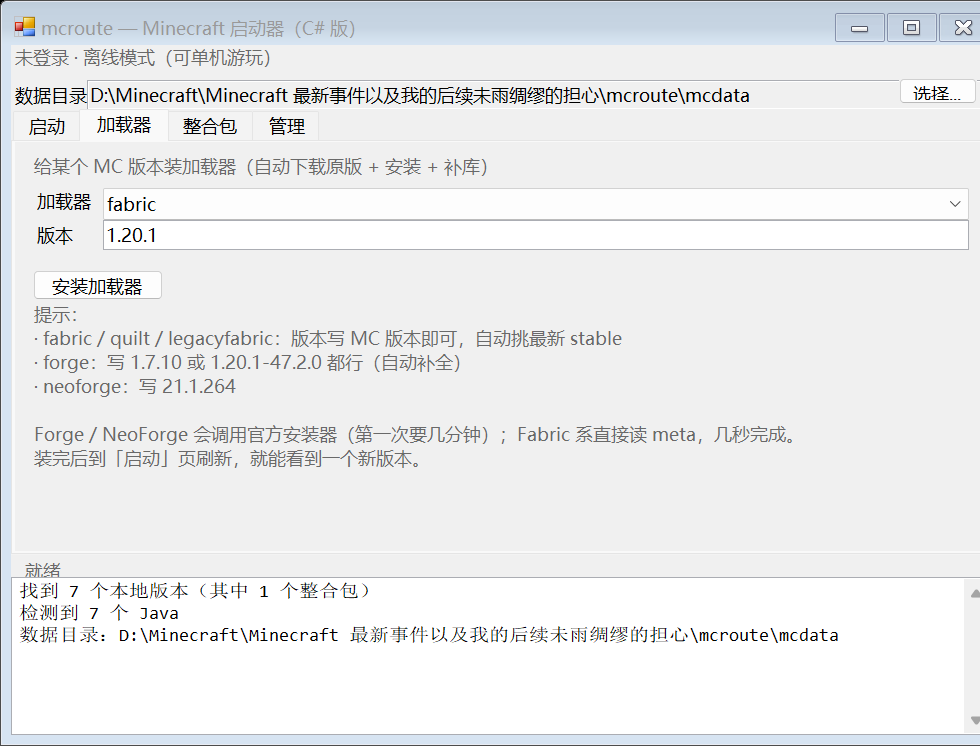
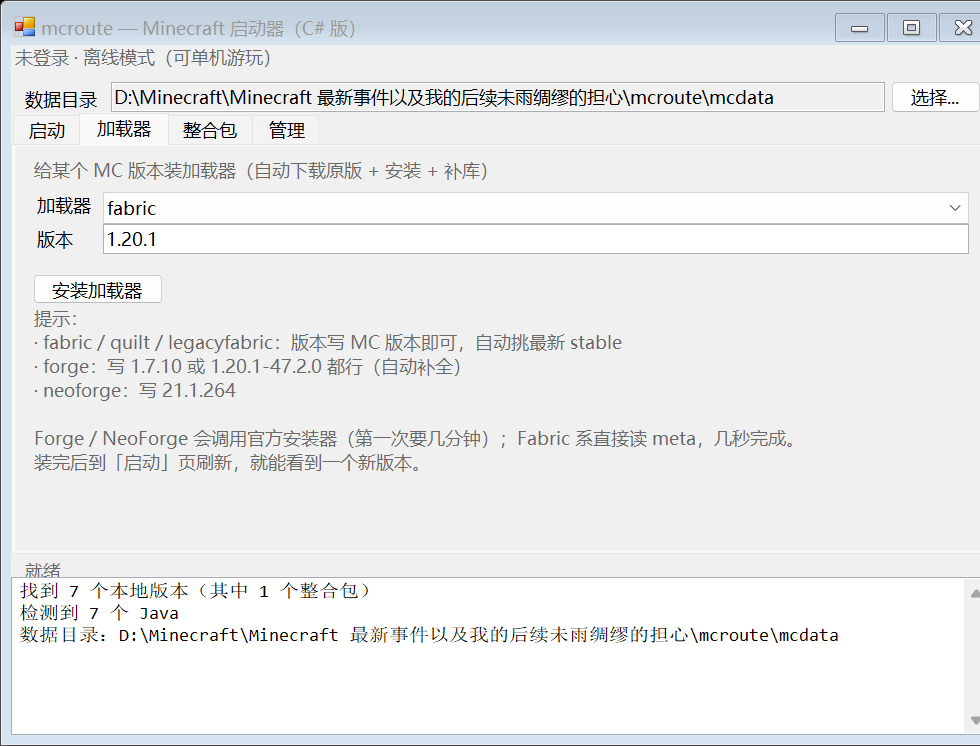
fix(gui): data-dir and pack rows use TableLayout+AutoSize labels (buttons were hidden); drag-drop a pack file

diff --git a/csharp/MainForm.cs b/csharp/MainForm.cs
@@ -50,21 +50,19 @@ namespace Mcroute
             var top = new Panel { Dock = DockStyle.Top, Height = 30, Padding = new Padding(10, 7, 10, 0) };
             top.Controls.Add(new Label { Text = "未登录 · 离线模式（可单机游玩）", AutoSize = true, ForeColor = Color.DimGray });
 
-            var dataRow = new Panel { Dock = DockStyle.Top, Height = 34, Padding = new Padding(10, 2, 10, 0) };
-            var dataLabel = new Label { Text = "数据目录", AutoSize = true, Location = new Point(0, 8) };
-            _dataDirBox = new TextBox
-            {
-                Left = 76,
-                Top = 5,
-                Width = 560,
-                ReadOnly = true,
-                Anchor = AnchorStyles.Left | AnchorStyles.Top | AnchorStyles.Right,
-            };
-            var pickDir = new Button { Text = "选择...", Width = 78, Height = 26, Top = 3, Anchor = AnchorStyles.Top | AnchorStyles.Right };
-            pickDir.Left = 640;
-            dataRow.Resize += (s, e) => pickDir.Left = dataRow.ClientSize.Width - pickDir.Width - 14;
-            pickDir.Click += (s, e) => PickDataDir();
-            dataRow.Controls.AddRange(new Control[] { dataLabel, _dataDirBox, pickDir });
+            // 数据目录行（TableLayout：标签 | 输入框(填满) | 按钮）
+            var dataRow = new Panel { Dock = DockStyle.Top, Height = 38, Padding = new Padding(10, 4, 10, 0) };
+            var dataGrid = new TableLayoutPanel { Dock = DockStyle.Fill, ColumnCount = 3, RowCount = 1 };
+            dataGrid.ColumnStyles.Add(new ColumnStyle(SizeType.AutoSize));
+            dataGrid.ColumnStyles.Add(new ColumnStyle(SizeType.Percent, 100f));
+            dataGrid.ColumnStyles.Add(new ColumnStyle(SizeType.Absolute, 90f));
+            dataGrid.Controls.Add(new Label { Text = "数据目录", AutoSize = true, Anchor = AnchorStyles.Left, Margin = new Padding(0, 6, 8, 0) }, 0, 0);
+            _dataDirBox = new TextBox { Dock = DockStyle.Fill, ReadOnly = true, Margin = new Padding(0, 3, 6, 0) };
+            dataGrid.Controls.Add(_dataDirBox, 1, 0);
+            var pickDir = new Button { Text = "选择...", Dock = DockStyle.Fill, Margin = new Padding(0, 2, 0, 0) };
+            pickDir.Click += (s2, e2) => PickDataDir();
+            dataGrid.Controls.Add(pickDir, 2, 0);
+            dataRow.Controls.Add(dataGrid);
 
             var bottom = new Panel { Dock = DockStyle.Bottom, Height = 180 };
             _status = new Label { Dock = DockStyle.Top, Height = 22, Text = "就绪", ForeColor = Color.DimGray, Padding = new Padding(10, 4, 0, 0) };
@@ -233,13 +231,22 @@ namespace Mcroute
             }, 0, 0);
 
             var pathRow = new TableLayoutPanel { Dock = DockStyle.Fill, ColumnCount = 3 };
-            pathRow.ColumnStyles.Add(new ColumnStyle(SizeType.Absolute, 66f));
+            pathRow.ColumnStyles.Add(new ColumnStyle(SizeType.AutoSize));
             pathRow.ColumnStyles.Add(new ColumnStyle(SizeType.Percent, 100f));
             pathRow.ColumnStyles.Add(new ColumnStyle(SizeType.Absolute, 90f));
-            pathRow.Controls.Add(new Label { Text = "包文件", AutoSize = true, Anchor = AnchorStyles.Left }, 0, 0);
-            var path = new TextBox { Dock = DockStyle.Top };
+            pathRow.Controls.Add(new Label { Text = "包文件", AutoSize = true, Anchor = AnchorStyles.Left, Margin = new Padding(0, 6, 8, 0) }, 0, 0);
+            var path = new TextBox { Dock = DockStyle.Top, AllowDrop = true };
+            path.DragEnter += (s2, e2) =>
+            {
+                if (e2.Data.GetDataPresent(DataFormats.FileDrop)) e2.Effect = DragDropEffects.Copy;
+            };
+            path.DragDrop += (s2, e2) =>
+            {
+                var files = (string[])e2.Data.GetData(DataFormats.FileDrop);
+                if (files != null && files.Length > 0) path.Text = files[0];
+            };
             pathRow.Controls.Add(path, 1, 0);
-            var browse = new Button { Text = "浏览...", Dock = DockStyle.Top };
+            var browse = new Button { Text = "浏览...", Dock = DockStyle.Fill };
             browse.Click += (s, e) =>
             {
                 using (var dlg = new OpenFileDialog())
@@ -268,6 +275,7 @@ namespace Mcroute
                 Dock = DockStyle.Fill,
                 ForeColor = Color.DimGray,
                 Text = "说明：\n" +
+                       "· 也可以把整合包文件直接拖到上面的输入框里\n" +
                        "· 装成标准 versions/<包名>/ 布局，其它启动器也认\n" +
                        "· CurseForge 包需要 API key：环境变量 CF_API_KEY，或 mcdata\\cf_api_key.txt\n" +
                        "· 装完到「管理」页体检 / 测试启动",
